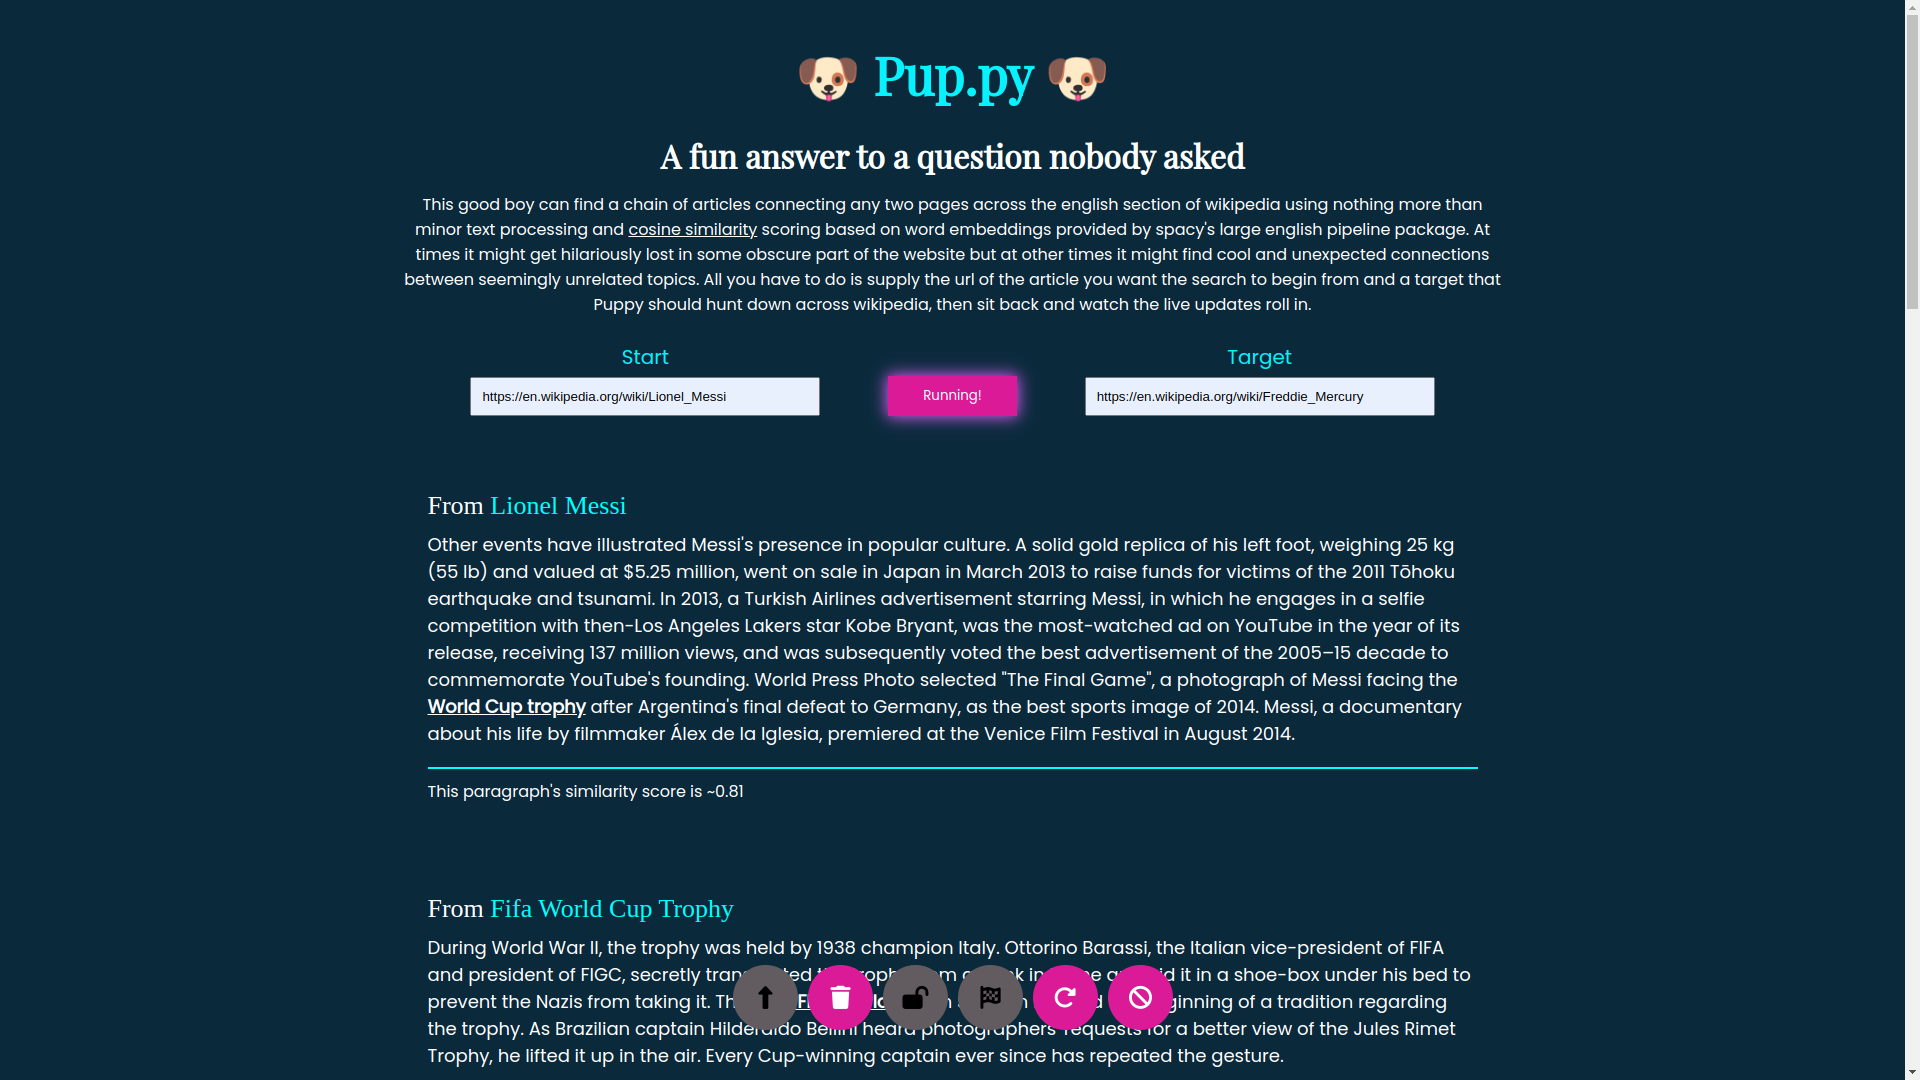
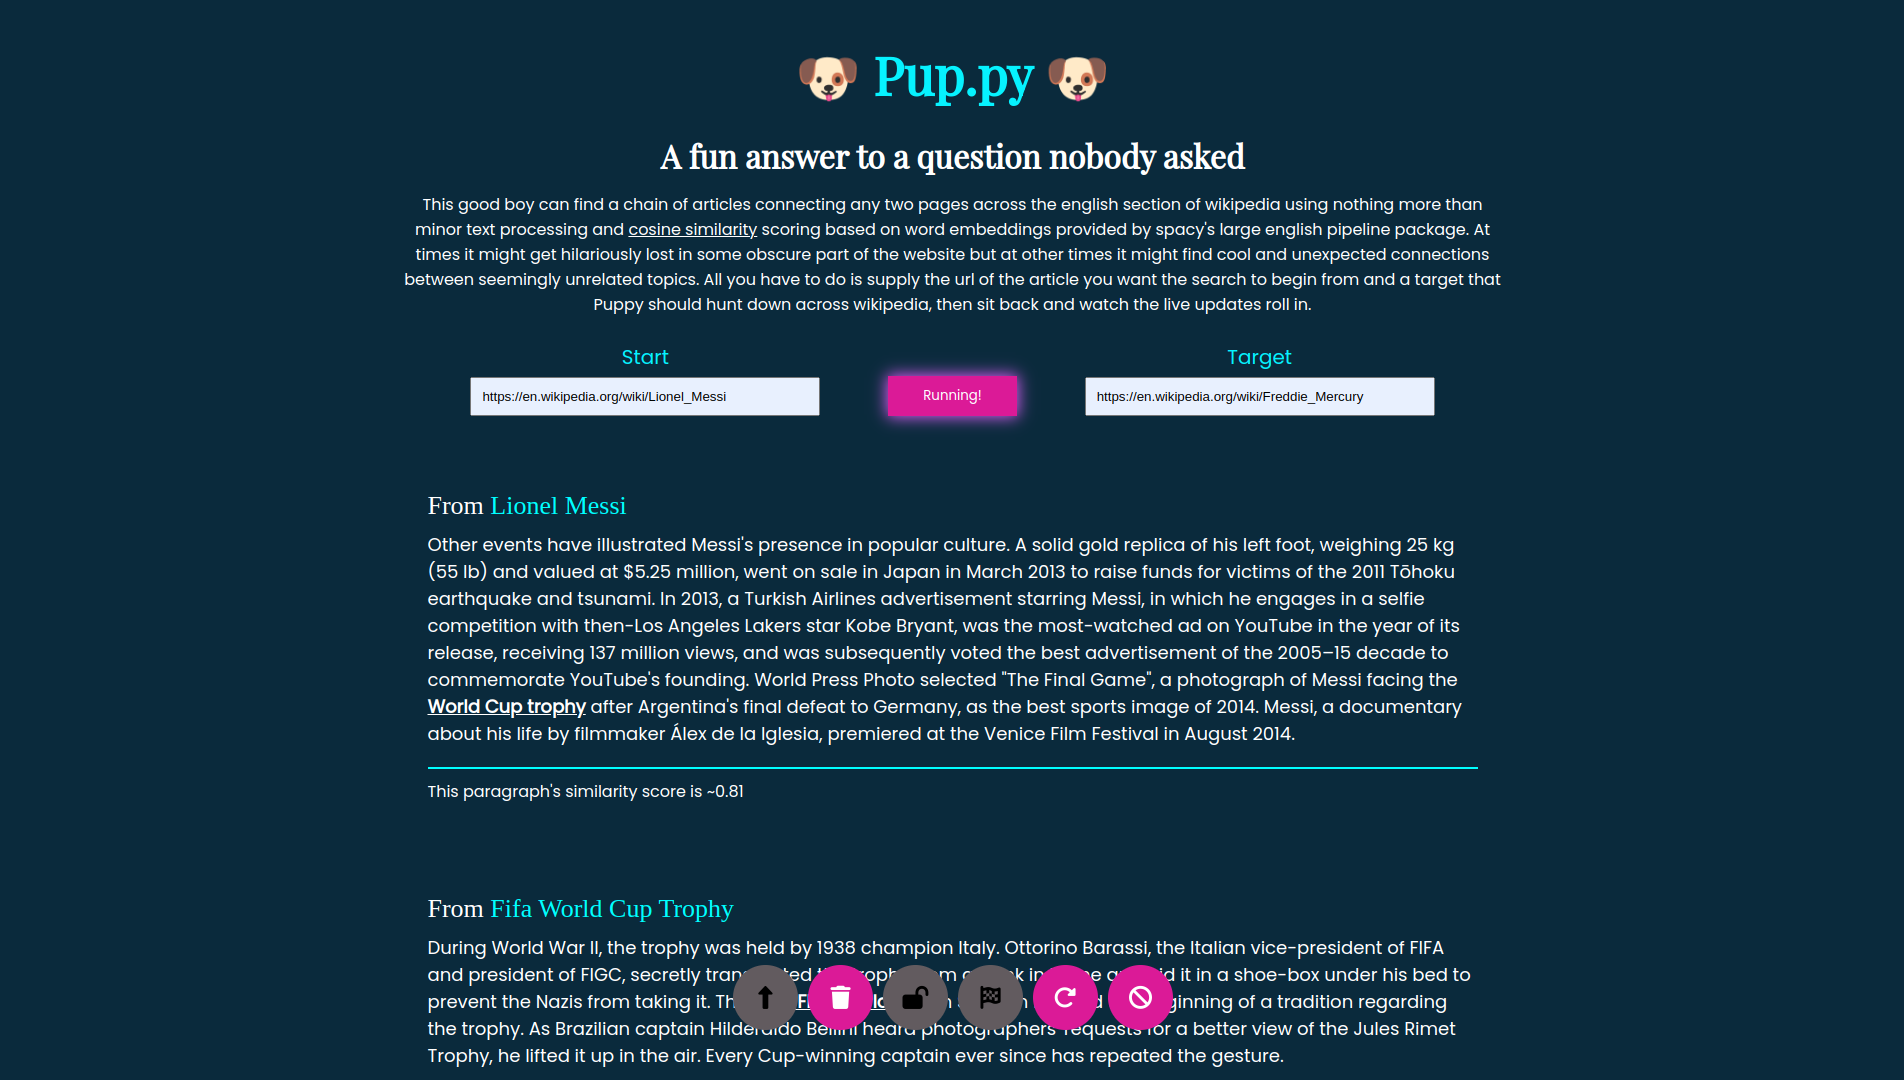
crop a bit the preview images and add a note to the README

diff --git a/README.md b/README.md
@@ -5,10 +5,12 @@
 
 This good boy can find a chain of articles connecting any two pages across the english section of wikipedia using nothing more than minor text processing and [cosine similarity](https://spacy.io/usage/linguistic-features#vectors-similarity) scoring based on word embeddings provided by spacy's large english pipeline package. At times it might get hilariously lost in some obscure part of the website but at other times it might find cool and unexpected connections between seemingly unrelated topics. All you have to do is supply the url of the article you want the search to begin from and a target that Puppy should hunt down across wikipedia, then sit back and watch the live updates roll in.
 
+Note: This is a work in progress and is still missing many features, so you might run into bugs. Feel free to open an issue to report any problems with the app or even fix them yourself through a pull request.
+
 ------------------
 
 In order to get the project set up and ready `cd` into the webapp folder and run `npm i` followed by `npm run build`, this will ensure that the front end of the app will be bundled and ready to be served by the flask server. Now `cd` back to the root of the project and run `python -m venv puppy_env` to keep things tidy and then run `pip install -r requirements.txt`. At this point puppy is ready to go, simply run `python server.py` and visit the web address logged by flask in the console, enjoy!
 
 <p align="center"><img src="./preview/puppy_start.png" width="50%"/></p>
 
-<p align="center"><img src="./preview/puppy_start.png" width="50%"/></p>
+<p align="center"><img src="./preview/puppy_result.png" width="50%"/></p>
